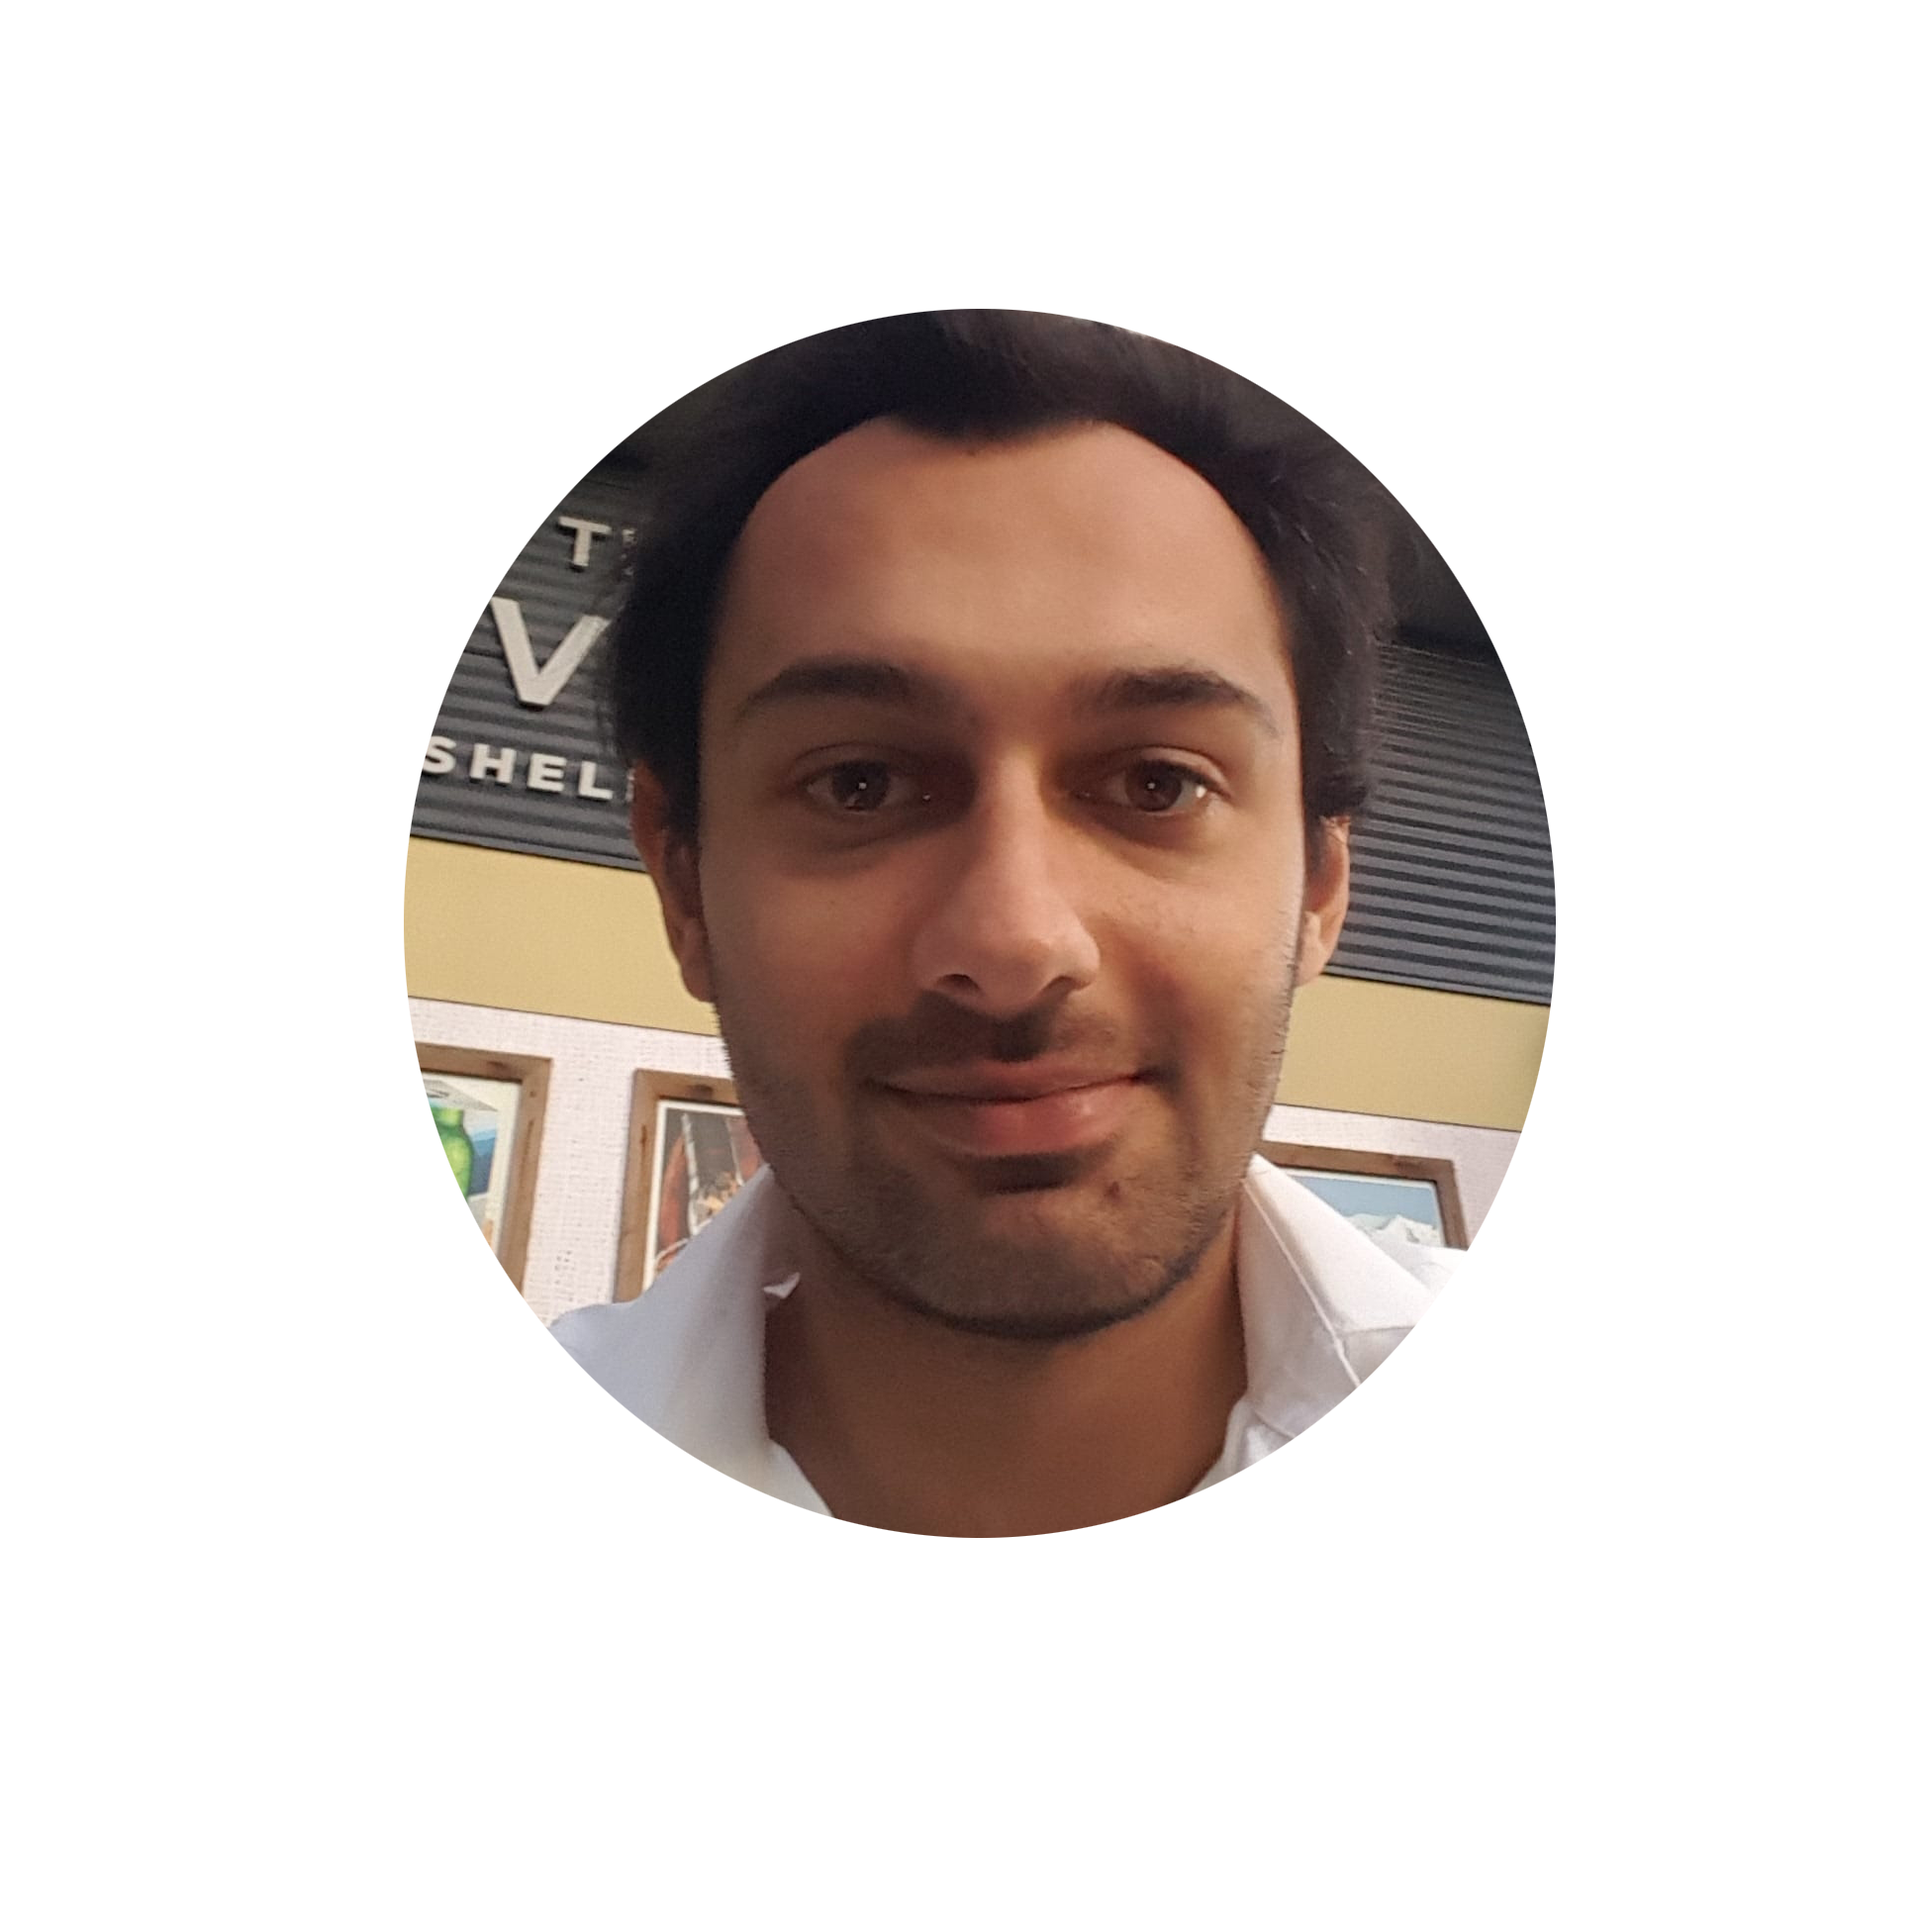
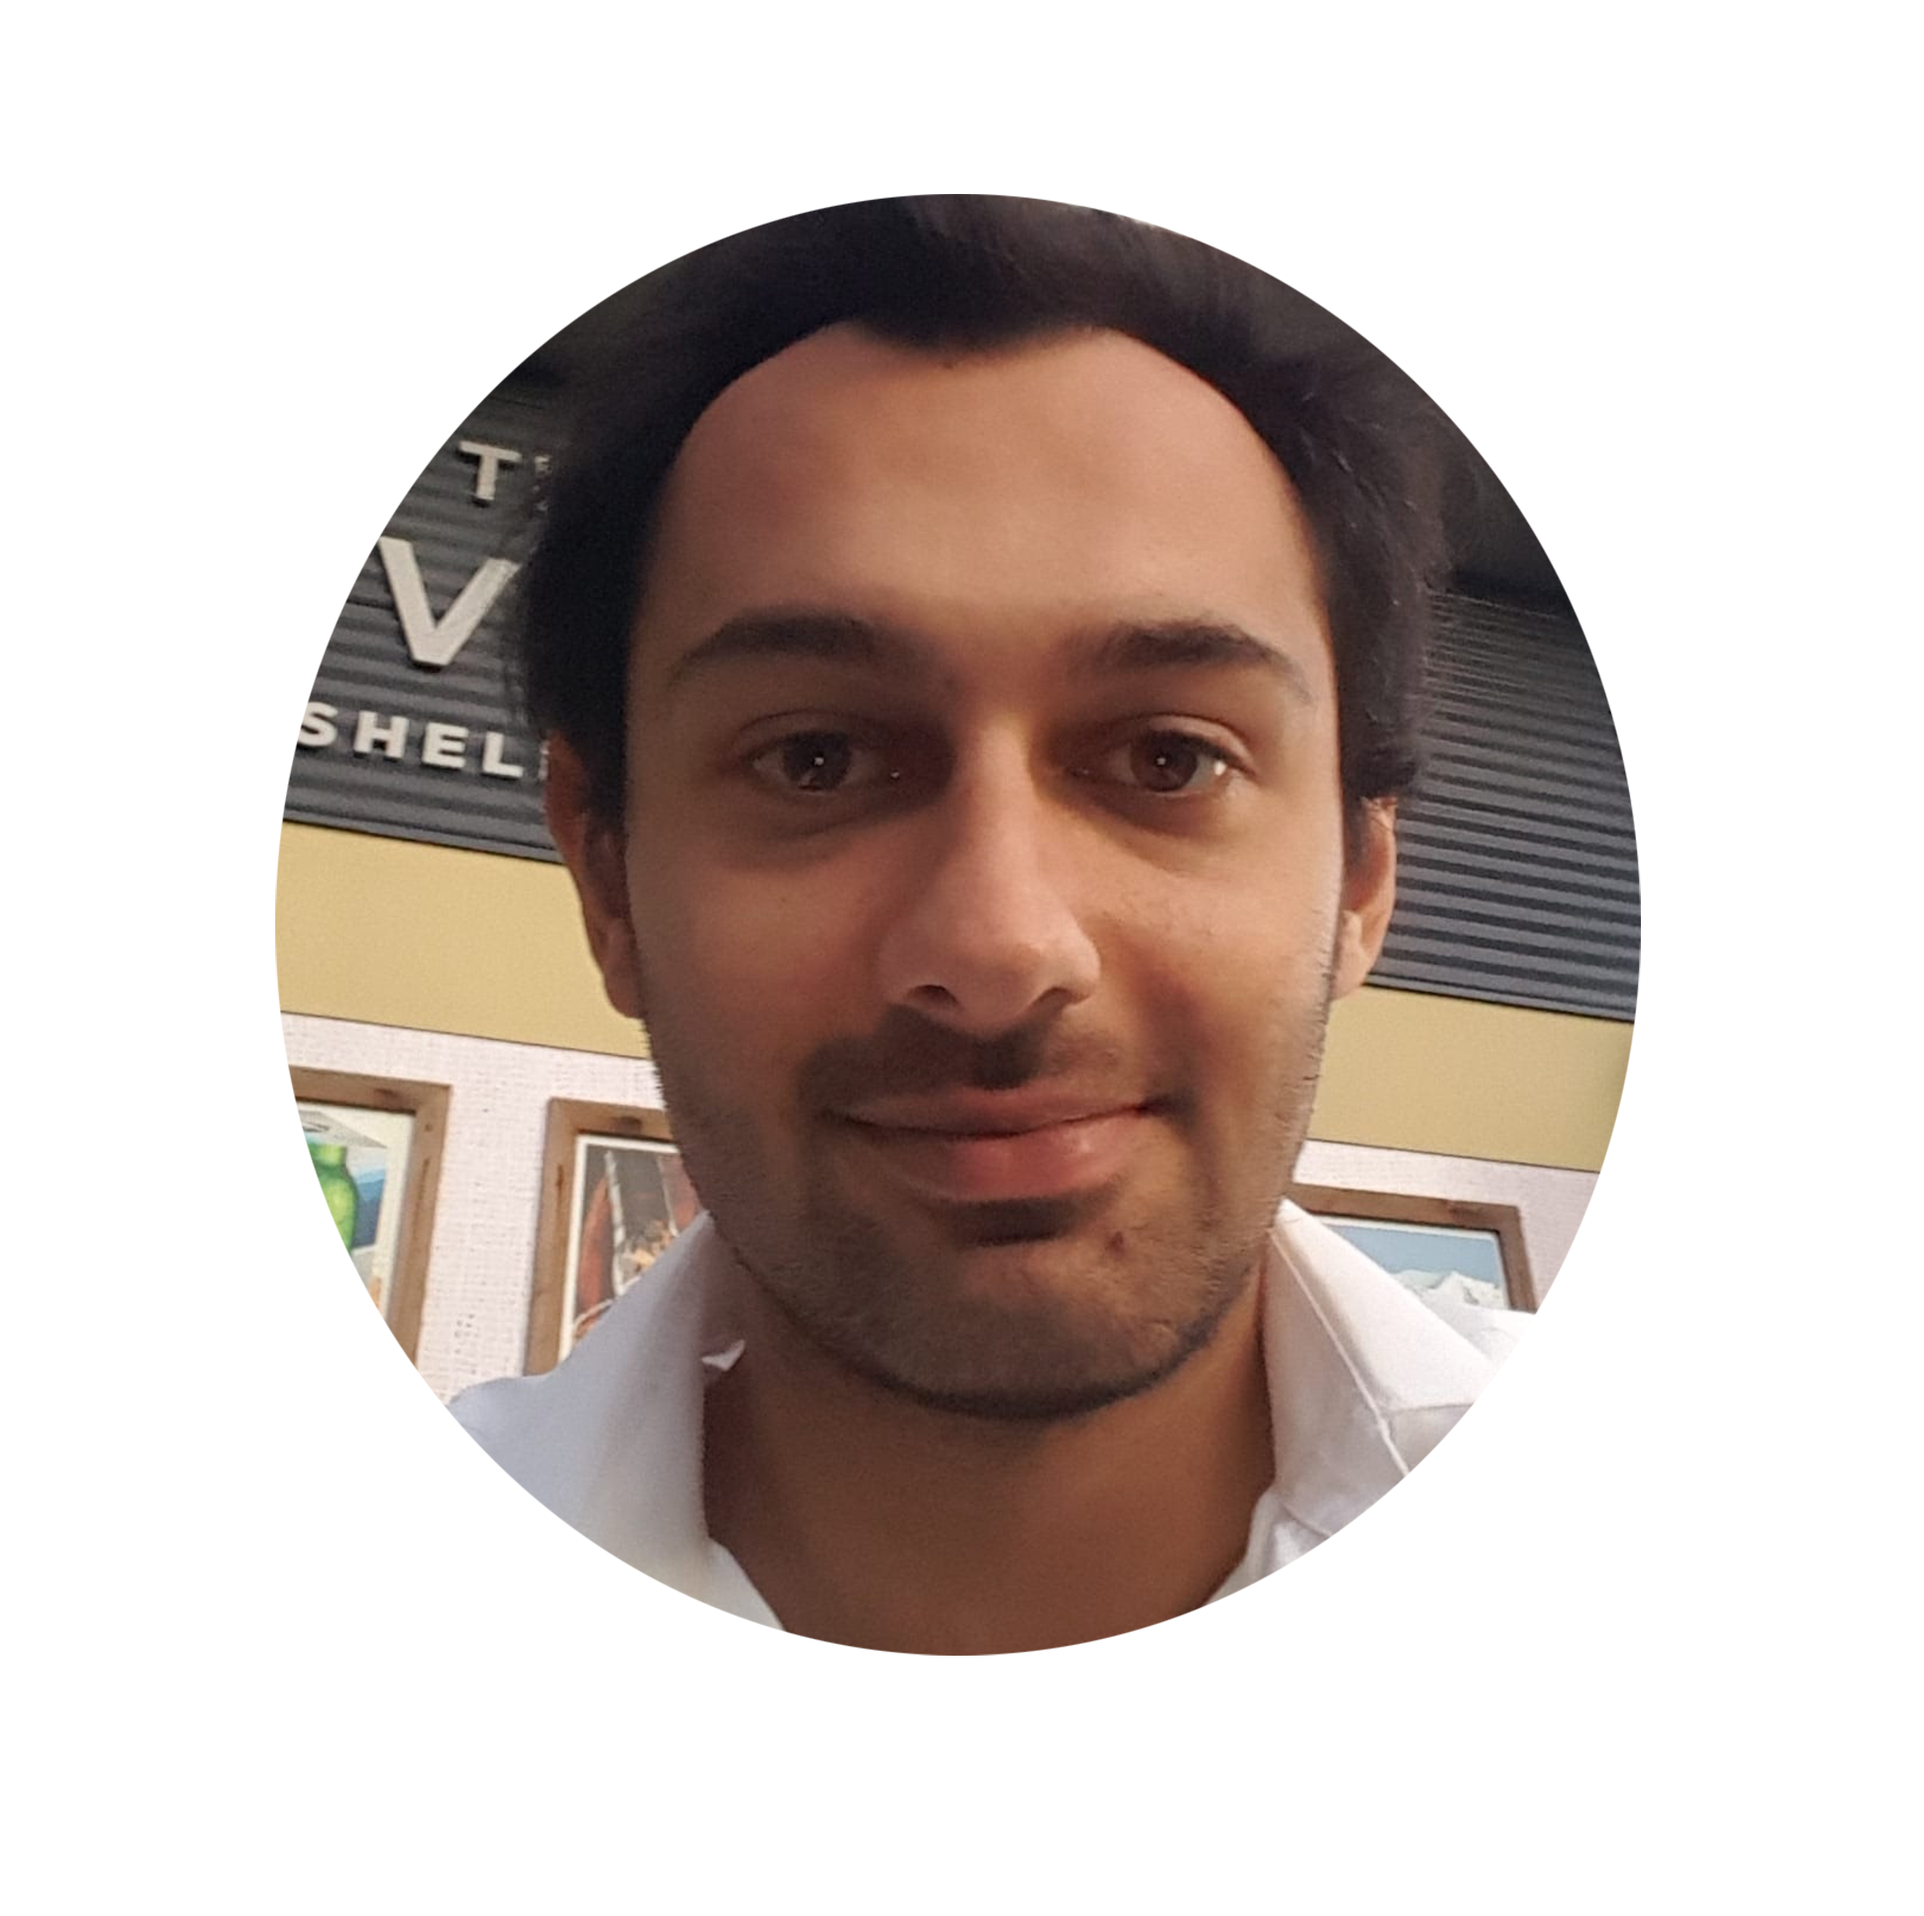
made profile image bigger

Changed region(s): [[0.1235, 0.093, 0.8642, 0.8678]]

diff --git a/index.html b/index.html
@@ -38,7 +38,7 @@
         <header class="masthead bg-primary text-white text-center">
             <div class="container d-flex align-items-center flex-column">
                 <!-- Masthead Avatar Image-->
-                <!--<img class="masthead-avatar mb-5" src="assets/img/portfolio/Me.png" alt="..." />-->
+                <img class="masthead-avatar mb-5" src="assets/img/portfolio/Me.png" alt="..." />
                 <!-- Masthead Heading-->
                 <h1 class="masthead-heading text-uppercase mb-0">David Shannon</h1>
                 <!-- Icon Divider-->
